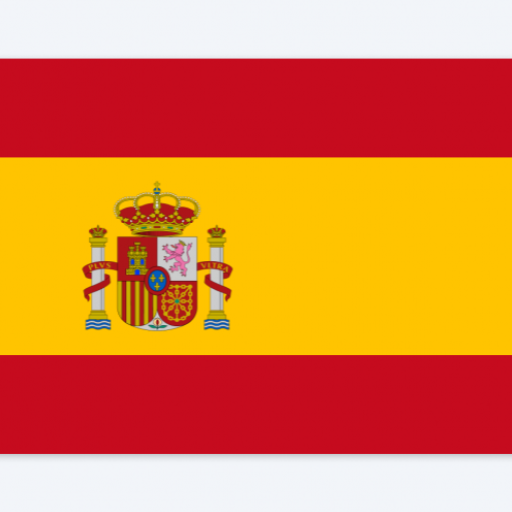
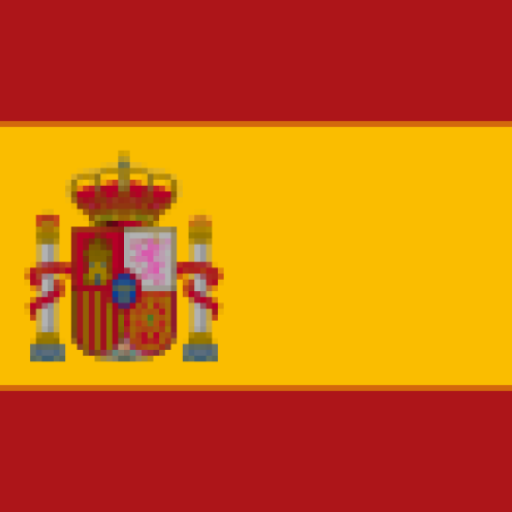
1-11-2024 1º

diff --git a/app/src/main/java/com/example/ejemplo_01/MainActivity.kt b/app/src/main/java/com/example/ejemplo_01/MainActivity.kt
@@ -8,11 +8,15 @@ import android.view.View
 import android.view.ViewGroup
 import android.widget.AdapterView
 import android.widget.ArrayAdapter
+import android.widget.Button
+import android.widget.CheckBox
 import android.widget.EditText
 import android.widget.ImageView
+import android.widget.RadioButton
 import android.widget.RadioGroup
 import android.widget.SeekBar
 import android.widget.Spinner
+import android.widget.Switch
 import android.widget.TextView
 import androidx.activity.enableEdgeToEdge
 import androidx.annotation.RequiresApi
@@ -31,12 +35,29 @@ class MainActivity : AppCompatActivity(), AdapterView.OnItemSelectedListener {
         "EEUU"
     )
     private val paisImg = intArrayOf(
-        R.drawable.spain_background,
-        R.drawable.colombia_background,
-        R.drawable.alemania_background,
-        R.drawable.italia_background,
-        R.drawable.eeuu_background
+        R.mipmap.spain_foreground,
+        R.mipmap.colombia_foreground,
+        R.mipmap.alemania_foreground,
+        R.mipmap.italia_foreground,
+        R.mipmap.eeuu_foreground
     )
+    private var paisSelec = ""
+
+    // Lista muctable que ira incluyendo o eliminando elementos en funcion de las elecciones en los
+        // checbox
+    // String para mostar los datos
+    var hobbies = ""
+    var misHobbies = mutableListOf<String>()
+
+    // String que guardara la seleccion del usuario sobre el boletin
+    private lateinit var switchBoletin: Switch
+    var boletin = ""
+
+    // Instanciamos los checkbox, ya que accederemos a ellos desde un metodo fuera del onCreate()
+    private lateinit var checkBoxDeportes: CheckBox
+    private lateinit var checkBoxArte: CheckBox
+    private lateinit var checkBoxMusica: CheckBox
+    private lateinit var checkBoxLectura: CheckBox
 
     @RequiresApi(Build.VERSION_CODES.O)
     override fun onCreate(savedInstanceState: Bundle?) {
@@ -52,11 +73,44 @@ class MainActivity : AppCompatActivity(), AdapterView.OnItemSelectedListener {
 
         // Seekbar de la satisfaccion y su textView que muestre el valor seleccionado
         val seekbarSatis = findViewById<SeekBar>(R.id.seekBarSatisfaccion)
-        val textViewSatis = findViewById<TextView>(R.id.textViewSatisfaccion)
-        var Satis = ""
+        val textViewSatis = findViewById<TextView>(R.id.textViewReal)
+        var satis = ""
         // Configura los valores mínimo y máximo de la SeekBar
         seekbarSatis.min = 0
         seekbarSatis.max = 10
+        seekbarSatis.setOnSeekBarChangeListener(object : SeekBar.OnSeekBarChangeListener {
+            /**
+             * Método que se llama cada vez que cambio el progreso
+             * seekBar contiene la referencia a la seekBar
+             * progress contiene el valor actual de la seekbar
+             * fromUser indica si el cambio lo ha producido el usuario al arastar la barra
+             */
+            override fun onProgressChanged(seekBar: SeekBar?, progress: Int, fromUser: Boolean) {
+                // Actualiza el TextView mientras se mueve la SeekBar
+                textViewSatis.text = "$progress"
+                satis = progress.toString()
+            }
+
+            /**
+             * Se llama cuando el usuario comienza a tocar la seekbar
+             */
+            override fun onStartTrackingTouch(seekBar: SeekBar?) {
+            }
+
+            /**
+             * Se llama cuando el usuario deja de tocarla
+             */
+            override fun onStopTrackingTouch(seekBar: SeekBar?) {
+            }
+        })
+
+        // ChexBox de los hobbies.
+        checkBoxDeportes = findViewById(R.id.checkBoxDeporte)
+        checkBoxMusica = findViewById(R.id.checkBoxMusica)
+        checkBoxArte = findViewById(R.id.checkBoxArte)
+        checkBoxLectura = findViewById(R.id.checkBoxLectura)
+        // Metodo que verifica los checkbox seleccionados
+        configurarCheckBox()
 
         // RadioGroup del sexo
         var radioGroup = findViewById<RadioGroup>(R.id.radioGroup)
@@ -66,7 +120,106 @@ class MainActivity : AppCompatActivity(), AdapterView.OnItemSelectedListener {
         val adaptadorPersonalizado = AdaptadorPersonalizado(this, R.layout.fila_spinner, pais)
         selectorCiudades.adapter = adaptadorPersonalizado
         selectorCiudades.onItemSelectedListener = this
+
+        // Switch sobre el boletin
+        switchBoletin = findViewById(R.id.switchSuscripcion)
+        switchBoletin.textOn = "SI"
+        switchBoletin.textOff = "NO"
+        configurarSwitch()
+
+
+        // Boton guardar
+        val botonGuardar = findViewById<Button>(R.id.buttonGuardar)
+        // TextView donde se mostraran los datos seleccionados
+        val textViewDatos = findViewById<TextView>(R.id.textViewDatos)
+
+        botonGuardar.setOnClickListener{
+            // Almacenamos los datos de los edittext
+            val nombre = edittextNombre.text
+            val apellido = edittextape.text
+            val mail = edittextmail.text
+            // Datos de radioGroup
+            val selectedSexoID = radioGroup.checkedRadioButtonId
+            val selectedSexo: RadioButton?
+            var sexo = ""
+            if (selectedSexoID != -1) {
+                selectedSexo = findViewById(selectedSexoID)
+                sexo = selectedSexo.text.toString()
+            }
+            imprimirHobbies()
+            textViewDatos.text = getString(
+                R.string.datos,
+                nombre,
+                apellido,
+                mail,
+                sexo,
+                paisSelec,
+                hobbies,
+                satis,
+                boletin
+            )
+        }
     }
+
+    private fun imprimirHobbies(){
+        hobbies = ""
+        for (hobbie in misHobbies){
+            hobbies += "$hobbie"
+        }
+    }
+
+    /**
+     * Configuramos un escuchador para cambiar el valor de la variable
+     */
+    private fun configurarSwitch(){
+        switchBoletin.setOnCheckedChangeListener{_, isChecked ->
+            if(isChecked){
+                boletin = "SI"
+            } else {
+                boletin = "NO"
+            }
+        }
+    }
+
+    /**
+     * Función para configurar escuchador del checkBox
+     */
+    private fun configurarCheckBox() {
+        // Configura un listener para el CheckBox
+        //buttonView, isChecked -> Esto define un bloque de código anónimo que se ejecutará cuando
+        // se active el listener. buttonView es una referencia al propio CheckBox, y isChecked es
+        // un parámetro que indica si el CheckBox está marcado (true) o desmarcado (false) en el
+        // momento del cambio.
+        checkBoxDeportes.setOnCheckedChangeListener { _, isChecked ->
+            if (isChecked) {
+                misHobbies.add("los deportes, ")
+            } else {
+                misHobbies.remove("los deportes, ")
+            }
+        }
+        checkBoxMusica.setOnCheckedChangeListener { _, isChecked ->
+            if (isChecked) {
+                misHobbies.add("la musica, ")
+            } else {
+                misHobbies.remove("la musica, ")
+            }
+        }
+        checkBoxArte.setOnCheckedChangeListener { _, isChecked ->
+            if (isChecked) {
+                misHobbies.add("el arte, ")
+            } else {
+                misHobbies.remove("el arte, ")
+            }
+        }
+        checkBoxLectura.setOnCheckedChangeListener { _, isChecked ->
+            if (isChecked) {
+                misHobbies.add("la lectura, ")
+            } else {
+                misHobbies.remove("la lectura, ")
+            }
+        }
+    }
+
     /**
      * Creo una subclase de array adapter para personalizar el adaptador
      */
@@ -131,6 +284,7 @@ class MainActivity : AppCompatActivity(), AdapterView.OnItemSelectedListener {
 
             //Fijamos el nombre del pais
             rowView.findViewById<TextView>(R.id.textViewNombrePais).text = pais[position]
+            paisSelec = pais[position].toString()
 
             //Fijamos la imagen de la bandera
             rowView.findViewById<ImageView>(R.id.imageViewBanderaPais).setImageResource(paisImg[position])
